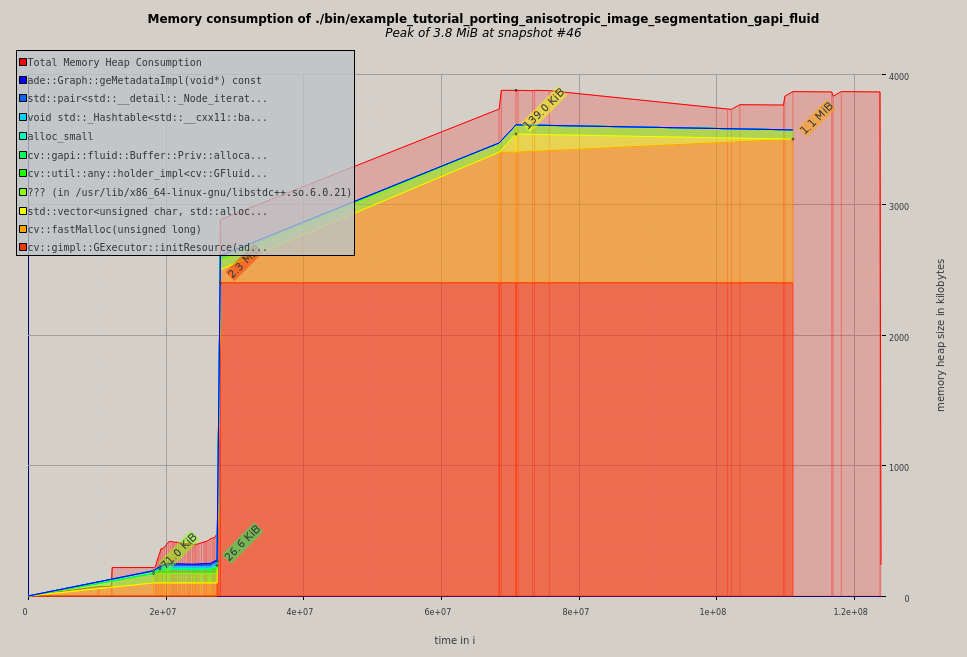
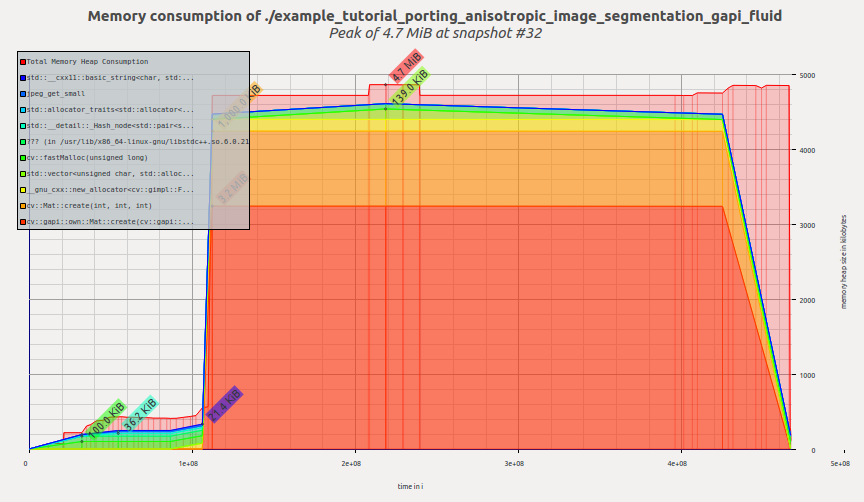
Updates gapi tutorial using normalize kernel
Changes doc, images and sample code itself

diff --git a/samples/cpp/tutorial_code/gapi/porting_anisotropic_image_segmentation/porting_anisotropic_image_segmentation_gapi_fluid.cpp b/samples/cpp/tutorial_code/gapi/porting_anisotropic_image_segmentation/porting_anisotropic_image_segmentation_gapi_fluid.cpp
@@ -50,8 +50,12 @@ int main()
     auto imgBin = imgCoherencyBin & imgOrientationBin;
     cv::GMat out = cv::gapi::addWeighted(in, 0.5, imgBin, 0.5, 0.0);
 
+    // Normalize extra outputs
+    cv::GMat imgCoherencyNorm = cv::gapi::normalize(imgCoherency, 0, 255, cv::NORM_MINMAX);
+    cv::GMat imgOrientationNorm = cv::gapi::normalize(imgOrientation, 0, 255, cv::NORM_MINMAX);
+
     // Capture the graph into object segm
-    cv::GComputation segm(cv::GIn(in), cv::GOut(out, imgCoherency, imgOrientation));
+    cv::GComputation segm(cv::GIn(in), cv::GOut(out, imgCoherencyNorm, imgOrientationNorm));
 
     // Define cv::Mats for output data
     cv::Mat imgOut, imgOutCoherency, imgOutOrientation;
@@ -74,10 +78,6 @@ int main()
                cv::compile_args(fluid_kernels));                      // Kernel package to use
     //! [kernel_pkg_use]
     //! [kernel_pkg_proper]
-
-    // Normalize extra outputs (out of the graph)
-    cv::normalize(imgOutCoherency, imgOutCoherency, 0, 255, cv::NORM_MINMAX);
-    cv::normalize(imgOutOrientation, imgOutOrientation, 0, 255, cv::NORM_MINMAX);
 
     cv::imwrite("result.jpg", imgOut);
     cv::imwrite("Coherency.jpg", imgOutCoherency);

diff --git a/samples/cpp/tutorial_code/gapi/porting_anisotropic_image_segmentation/porting_anisotropic_image_segmentation_gapi.cpp b/samples/cpp/tutorial_code/gapi/porting_anisotropic_image_segmentation/porting_anisotropic_image_segmentation_gapi.cpp
@@ -45,18 +45,18 @@ int main()
     cv::GMat imgBin = imgCoherencyBin & imgOrientationBin;
     cv::GMat out = cv::gapi::addWeighted(in, 0.5, imgBin, 0.5, 0.0);
 
+    // Normalize extra outputs
+    cv::GMat imgCoherencyNorm = cv::gapi::normalize(imgCoherency, 0, 255, cv::NORM_MINMAX);
+    cv::GMat imgOrientationNorm = cv::gapi::normalize(imgOrientation, 0, 255, cv::NORM_MINMAX);
+
     // Capture the graph into object segm
-    cv::GComputation segm(cv::GIn(in), cv::GOut(out, imgCoherency, imgOrientation));
+    cv::GComputation segm(cv::GIn(in), cv::GOut(out, imgCoherencyNorm, imgOrientationNorm));
 
     // Define cv::Mats for output data
     cv::Mat imgOut, imgOutCoherency, imgOutOrientation;
 
     // Run the graph
     segm.apply(cv::gin(imgIn), cv::gout(imgOut, imgOutCoherency, imgOutOrientation));
-
-    // Normalize extra outputs (out of the graph)
-    cv::normalize(imgOutCoherency, imgOutCoherency, 0, 255, cv::NORM_MINMAX);
-    cv::normalize(imgOutOrientation, imgOutOrientation, 0, 255, cv::NORM_MINMAX);
 
     cv::imwrite("result.jpg", imgOut);
     cv::imwrite("Coherency.jpg", imgOutCoherency);
